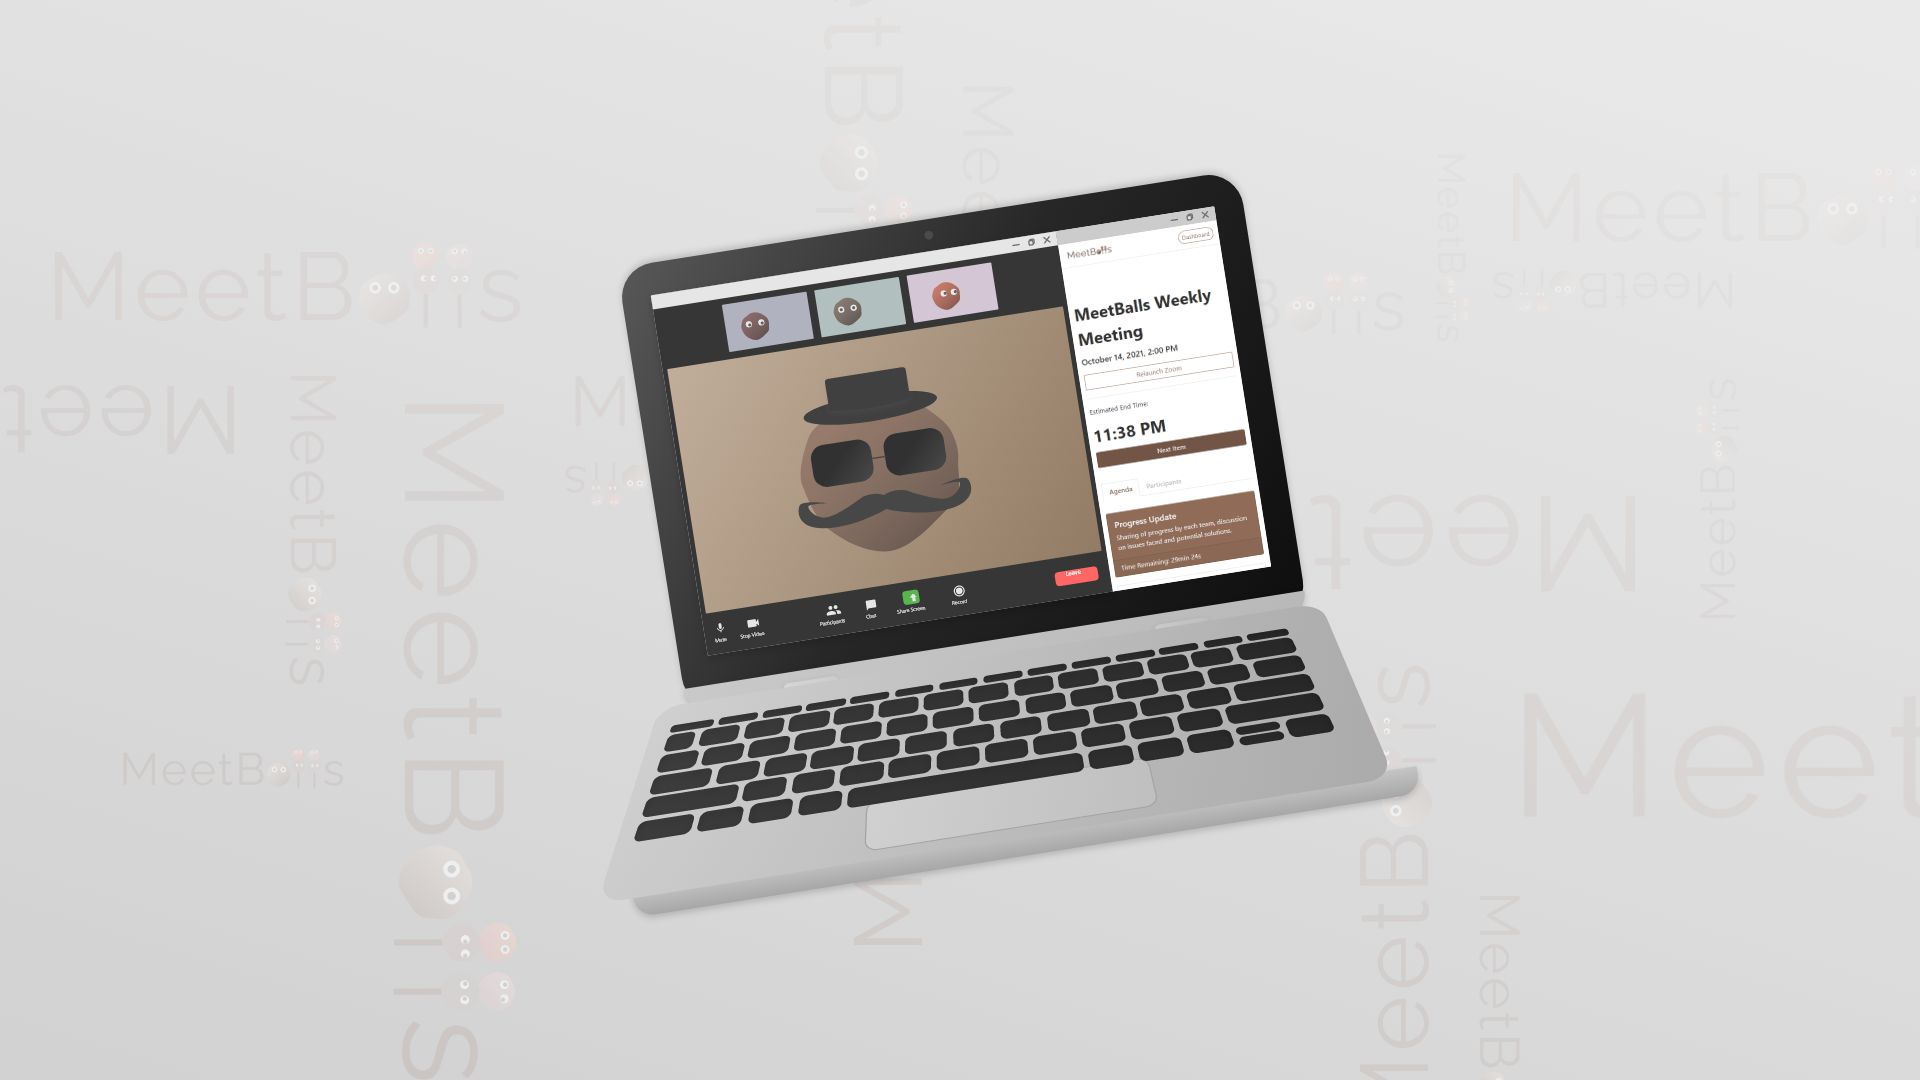
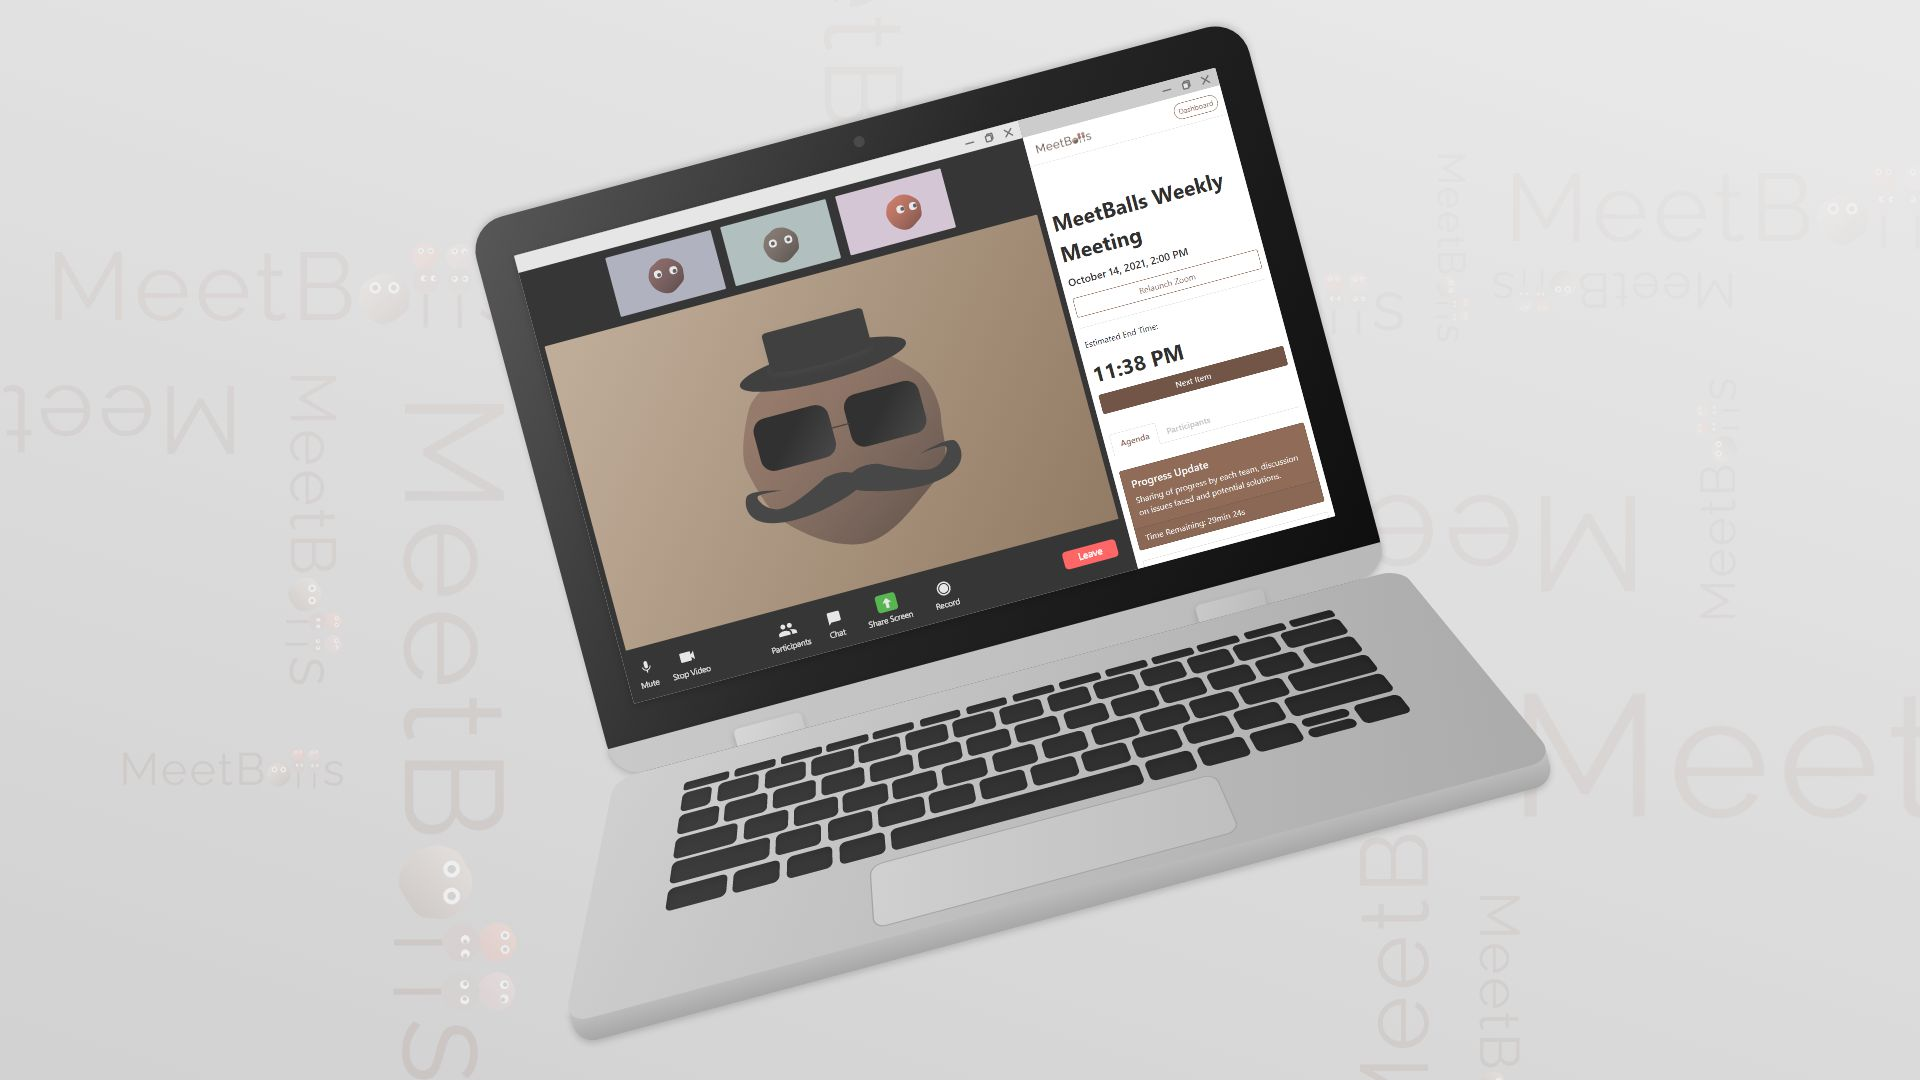
Add background

Changed region(s): [[0.25, 0.0, 0.8125, 0.9778]]

diff --git a/src/screens/CompletedMeeting/CompletedMeetingScreen.js b/src/screens/CompletedMeeting/CompletedMeetingScreen.js
@@ -14,6 +14,7 @@ import Statistics from './Statistics';
 import RedirectionScreen, {
   MEETING_NOT_FOUND_ERR,
 } from '../../components/RedirectionScreen';
+import BackgroundPattern from '../../assets/background_pattern2.jpg';
 
 export default function CompletedMeetingScreen() {
   const [meeting, setMeeting] = useState(blankMeeting);
@@ -40,12 +41,14 @@ export default function CompletedMeetingScreen() {
     return <RedirectionScreen message={MEETING_NOT_FOUND_ERR} />;
 
   const type = meeting.type;
-  if (type === 0) {
-    console.log('Meeting has not started yet');
-    return <Redirect to={`/meeting/${id}`} />;
-  } else if (type === 1 || type === 2) {
-    console.log('Meeting is ongoing');
-    return <Redirect to={`/ongoing/${id}`} />;
+  if (!loading) {
+    if (type === 0) {
+      console.log('Meeting has not started yet');
+      return <Redirect to={`/meeting/${id}`} />;
+    } else if (type === 1 || type === 2) {
+      console.log('Meeting is ongoing');
+      return <Redirect to={`/ongoing/${id}`} />;
+    }
   }
 
   function Content() {
@@ -86,14 +89,23 @@ export default function CompletedMeetingScreen() {
     meeting.duration,
   );
   return (
-    <>
-      <Container className="Container__padding--vertical">
+    <div
+      style={{
+        minHeight: 'calc(100vh - 56px)',
+        backgroundColor: 'gray',
+        backgroundImage: `url(${BackgroundPattern})`,
+      }}
+    >
+      <Container
+        className="Container__padding--vertical"
+        style={{ backgroundColor: 'white', minHeight: 'calc(100vh - 56px)' }}
+      >
         <Row>
           <Col
             lg={4}
             md={12}
             sm={12}
-            className="Container__padding--horizontal"
+            style={{ paddingLeft: 30, paddingRight: 30 }}
           >
             <p className="Text__header">{meeting.name}</p>
             <p className="Text__subheader">
@@ -152,6 +164,6 @@ export default function CompletedMeetingScreen() {
           </Col>
         </Row>
       </Container>
-    </>
+    </div>
   );
 }

diff --git a/src/screens/OngoingMeetingAdmin/OngoingMeetingAdminScreen.js b/src/screens/OngoingMeetingAdmin/OngoingMeetingAdminScreen.js
@@ -23,6 +23,7 @@ import RedirectionScreen, {
 } from '../../components/RedirectionScreen';
 import useSound from 'use-sound';
 import Bell from '../../assets/Bell.mp3';
+import BackgroundPattern from '../../assets/background_pattern2.jpg';
 
 export default function OngoingMeetingAdminScreen() {
   const [position, setPosition] = useState(-1);
@@ -185,14 +186,23 @@ export default function OngoingMeetingAdminScreen() {
   updateDelay(meeting.agendaItems, time, position, play);
 
   return (
-    <>
-      <Container className="Container__padding--vertical">
+    <div
+      style={{
+        minHeight: 'calc(100vh - 56px)',
+        backgroundColor: 'gray',
+        backgroundImage: `url(${BackgroundPattern})`,
+      }}
+    >
+      <Container
+        className="Container__padding--vertical"
+        style={{ backgroundColor: 'white', minHeight: 'calc(100vh - 56px)' }}
+      >
         <Row>
           <Col
             lg={4}
             md={12}
             sm={12}
-            className="Container__padding--horizontal"
+            style={{ paddingLeft: 30, paddingRight: 30 }}
           >
             <p className="Text__header">{meeting.name}</p>
             <p className="Text__subheader">
@@ -244,12 +254,7 @@ export default function OngoingMeetingAdminScreen() {
             <div className="Buffer--20px" />
           </Col>
           <Col lg={1} md={12} sm={12} />
-          <Col
-            lg={6}
-            md={12}
-            sm={12}
-            className="Container__padding--horizontal"
-          >
+          <Col lg={6} md={12} sm={12}>
             <Nav
               variant="tabs"
               defaultActiveKey="agenda"
@@ -281,7 +286,7 @@ export default function OngoingMeetingAdminScreen() {
           </Col>
         </Row>
       </Container>
-    </>
+    </div>
   );
 }
 

diff --git a/src/screens/UpcomingMeeting/UpcomingMeetingScreen.js b/src/screens/UpcomingMeeting/UpcomingMeetingScreen.js
@@ -22,6 +22,7 @@ import { extractError } from '../../utils/extractError';
 import RedirectionScreen, {
   MEETING_NOT_FOUND_ERR,
 } from '../../components/RedirectionScreen';
+import BackgroundPattern from '../../assets/background_pattern2.jpg';
 
 export default function UpcomingMeetingScreen() {
   const [meeting, setMeeting] = useState(blankMeeting);
@@ -131,14 +132,23 @@ export default function UpcomingMeetingScreen() {
   }
 
   return (
-    <>
-      <Container className="Container__padding--vertical">
+    <div
+      style={{
+        minHeight: 'calc(100vh - 56px)',
+        backgroundColor: 'gray',
+        backgroundImage: `url(${BackgroundPattern})`,
+      }}
+    >
+      <Container
+        className="Container__padding--vertical"
+        style={{ backgroundColor: 'white', minHeight: 'calc(100vh - 56px)' }}
+      >
         <Row>
           <Col
             lg={4}
             md={12}
             sm={12}
-            className="Container__padding--horizontal"
+            style={{ paddingLeft: 30, paddingRight: 30 }}
           >
             <p className="Text__header">{meeting.name}</p>
             <p className="Text__subheader">
@@ -227,7 +237,7 @@ export default function UpcomingMeetingScreen() {
         sendInvitation={(participant) => sendInvitationToAll(participant)}
       />
       <AddToggle />
-    </>
+    </div>
   );
 }
 

diff --git a/public/index.html b/public/index.html
@@ -39,6 +39,14 @@
     />
     <title>MeetBalls</title>
     <meta name="MeetBalls" content="Get the ball rolling" />
+    <meta property="og:type" content="website" />
+    <meta property="og:site_name" content="MeetBalls" />
+    <meta property="og:title" content="MeetBalls" />
+    <meta property="og:description" content="Get the ball rolling" />
+    <meta
+      property="og:image"
+      content="https://firebasestorage.googleapis.com/v0/b/logicui-9667a.appspot.com/o/Others%2FImage.png?alt=media&token=4428ee23-8541-4a5b-9640-96e71b2bc4bf"
+    />
   </head>
   <body>
     <noscript>You need to enable JavaScript to run this app.</noscript>

diff --git a/src/components/AppFooter.js b/src/components/AppFooter.js
@@ -71,11 +71,9 @@ export default function AppFooter() {
               fontSize: '14px',
             }}
           >
-            <footer>
-              <small>
-                &copy; Copyright {new Date().getFullYear()}, MeetBalls
-              </small>
-            </footer>
+            <p style={{ color: '#8F6B58' }}>
+              &copy; Copyright {new Date().getFullYear()}, MeetBalls
+            </p>
           </Col>
         </Row>
       </Container>

diff --git a/src/screens/LandingPage/SupportPage.js b/src/screens/LandingPage/SupportPage.js
@@ -32,7 +32,11 @@ export default function SupportPage() {
       </div>
       <Row
         className="Container__padding--vertical Container__padding--horizontal"
-        style={{ marginLeft: 0, marginRight: 0 }}
+        style={{
+          marginLeft: 0,
+          marginRight: 0,
+          minHeight: 'calc(100vh - 56px - 121px - 300px)',
+        }}
       >
         <Col
           sm={12}

diff --git a/src/App.js b/src/App.js
@@ -53,10 +53,6 @@ export default function App() {
 
   return (
     <Router>
-      <Helmet>
-        <title>MeetBalls</title>
-        <meta name="description" content="Get the ball rolling" />
-      </Helmet>
       <ScrollToTop />
       <AppNavbar />
       <CustomBootstrapStyle />

diff --git a/README.md b/README.md
@@ -6,4 +6,3 @@ PROJECT MEETBALLS - GET THE BALL ROLLING
 1. npm install react-datepicker --save
 1. npm i react-google-charts
 1. npm install use-sound
-1. npm i react-helmet
